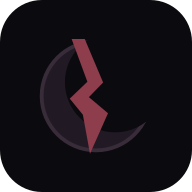
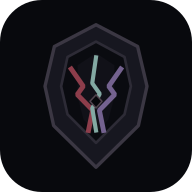
Replace game mark with a dark tri-realm gate

Changed region(s): [[0.1875, 0.125, 0.7812, 0.875], [0.5938, 0.625, 0.625, 0.6562]]

diff --git a/docs/qa/REALM_SYMBOLS_20261022.md b/docs/qa/REALM_SYMBOLS_20261022.md
@@ -1,6 +1,6 @@
 # Símbolos dos reinos e ícone dark do jogo
 
-Os três emblemas dos mundos usam símbolos vetoriais transparentes com contorno preto para destacar suas silhuetas sem adicionar molduras. Inferno usa uma chama serrilhada; Paraíso, linhas abertas e fluidas com um foco de luz; Limbo, elos interrompidos. O ícone do jogo foi simplificado para um eclipse escuro cortado por uma fissura vinho e também substitui a marca no cabeçalho, o favicon e os PNGs de instalação.
+Os três emblemas dos mundos usam símbolos vetoriais transparentes com contorno preto para destacar suas silhuetas sem adicionar molduras. Inferno usa uma chama serrilhada; Paraíso, linhas abertas e fluidas com um foco de luz; Limbo, elos interrompidos. O ícone do jogo traz um portal monolítico e sombrio, atravessado por três fissuras nas cores discretas dos mundos que convergem num núcleo comum. Ele também substitui a marca no cabeçalho, o favicon e os PNGs de instalação.
 
 ## Verificação
 
